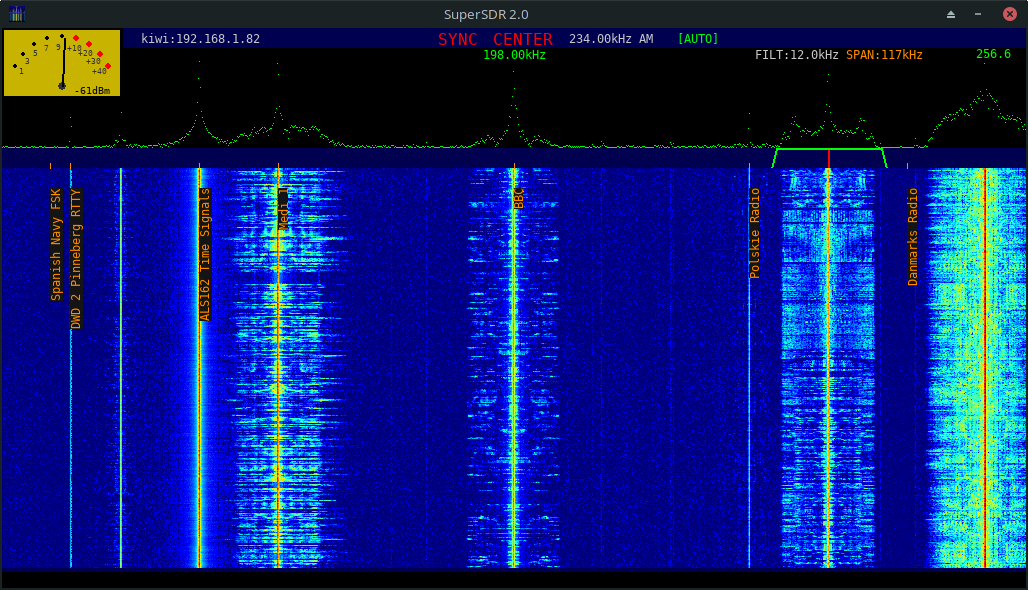
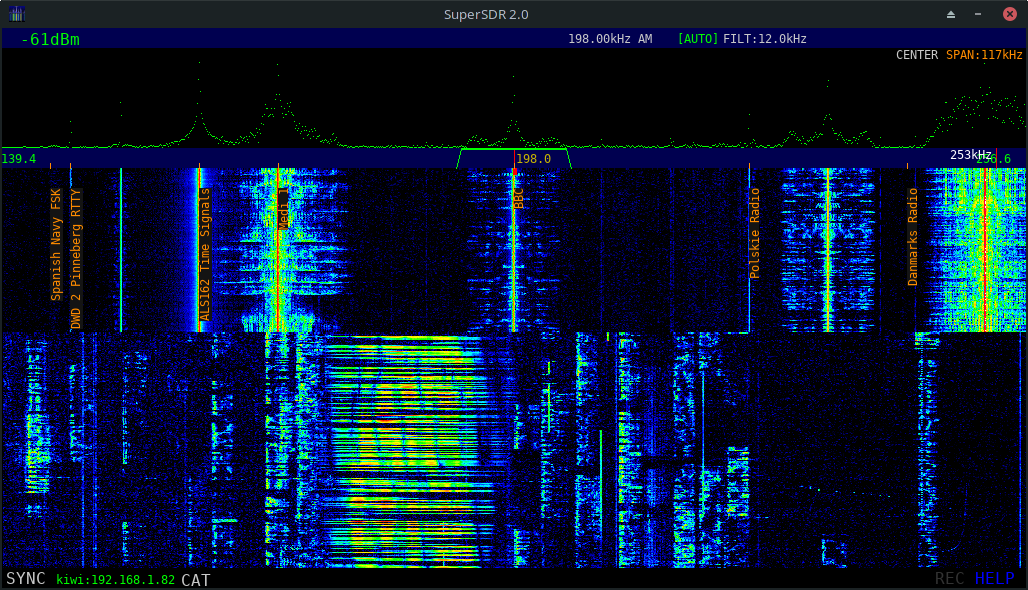
some more interface tweaks and updated screenshot, updated help

diff --git a/supersdr.py b/supersdr.py
@@ -20,15 +20,15 @@ def update_textsurfaces(radio_mode, rssi, mouse, wf_width):
             "left": (GREEN, "%.1f"%(kiwi_wf.start_f_khz) ,(0,TUNEBAR_Y+6), "small", False),
             "right": (GREEN, "%.1f"%(kiwi_wf.end_f_khz), (wf_width-50,TUNEBAR_Y+6), "small", False),
             "rx_freq": (GREY, "%.2fkHz %s"%(kiwi_snd.freq, kiwi_snd.radio_mode), (wf_width/2+55,V_POS_TEXT), "small", False),
-            "kiwi": (GREY, ("kiwi:"+kiwi_wf.host)[:30] ,(5,BOTTOMBAR_Y+6), "small", False),
-            "span": (ORANGE, "SPAN:%.0fkHz"%(round(kiwi_wf.span_khz)), (wf_width-180,SPECTRUM_Y+1), "small", False),
-            "filter": (GREY, "FILT:%.1fkHz"%((kiwi_snd.hc-kiwi_snd.lc)/1000.), (wf_width-270,SPECTRUM_Y+1), "small", False),
+            "kiwi": (RED if buff_level<FULL_BUFF_LEN/2 else GREEN, ("kiwi:"+kiwi_wf.host)[:30] ,(55,BOTTOMBAR_Y+6), "small", False),
+            "span": (ORANGE, "SPAN:%.0fkHz"%(round(kiwi_wf.span_khz)), (wf_width-80,SPECTRUM_Y+1), "small", False),
+            "filter": (GREY, "FILT:%.1fkHz"%((kiwi_snd.hc-kiwi_snd.lc)/1000.), (wf_width/2+210, V_POS_TEXT), "small", False),
             "p_freq": (WHITE, "%dkHz"%mouse_khz, (mousex_pos+4, TUNEBAR_Y+1), "small", False),
             "auto": ((GREEN if auto_mode else RED), "[AUTO]", (wf_width/2+165, V_POS_TEXT), "small", False),
-            "center": ((GREEN if wf_snd_link_flag else RED), "CENTER", (wf_width/2-20, V_POS_TEXT), "big", False),
-            "sync": ((GREEN if cat_snd_link_flag else RED), "SYNC", (wf_width/2-75, V_POS_TEXT), "big", False),
-            "buffer": (RED if buff_level<FULL_BUFF_LEN/2 else GREEN, "buffer level:"+str(buff_level), (200,BOTTOMBAR_Y+6), "small", False), 
-            "recording": (RED if audio_rec.recording_flag else D_GREY, "REC", (wf_width-90, BOTTOMBAR_Y+4), "big", False),
+            "center": ((GREEN if wf_snd_link_flag else GREY), "CENTER", (wf_width-130, SPECTRUM_Y+2), "small", False),
+            "sync": ((GREEN if cat_snd_link_flag else GREY), "SYNC", (5, BOTTOMBAR_Y+4), "big", False),
+            "cat": (GREEN if cat_radio else GREY, "CAT", (180,BOTTOMBAR_Y+6), "big", False), 
+            "recording": (RED if audio_rec.recording_flag and run_index%2 else D_GREY, "REC", (wf_width-90, BOTTOMBAR_Y+4), "big", False),
             "help": (BLUE, "HELP", (wf_width-50, BOTTOMBAR_Y+4), "big", False)
             }
     if not s_meter_show_flag:
@@ -411,7 +411,7 @@ while not wf_quit:
                     delta_high = 0
                 if keys[pygame.K_j]:
                     change_passband_flag = True
-                    delta = -100 if (keys[pygame.K_LSHIFT] or keys[pygame.K_RSHIFT]) else 100
+                    delta = 100 if (keys[pygame.K_LSHIFT] or keys[pygame.K_RSHIFT]) else -100
                     delta_low += delta
                     if delta_low > 3000:
                         delta_low = 3000

diff --git a/utils_supersdr.py b/utils_supersdr.py
@@ -109,8 +109,8 @@ HELP_MESSAGE_LIST = ["COMMANDS HELP",
         "- PAGE UP/DOWN: move WF freq +/- SPAN/2",
         "- UP/DOWN: zoom in/out by a factor 2X",
         "- U/L/C/A: switches to USB, LSB, CW, AM",
-        "- J/K: change low/high cut of RX (SHIFT inverts)",
-        "- O: resets passband to defaults",
+        "- J/K/O: change low/high cut of RX (SHIFT inverts), O resets",
+        "- E: start audio recording",
         "- F: enter frequency with keyboard",
         "- W/R: Write/Restore quick memory (up to 10)",
         "- SHIFT+W: Deletes all stored memories",
@@ -122,6 +122,7 @@ HELP_MESSAGE_LIST = ["COMMANDS HELP",
         "- SPACE: FORCE SYNC of WF to RX if no CAT, else all to CAT",
         "- X: AUTO MODE ON/OFF depending on amateur/broadcast band",
         "- H: displays this help window",
+        "- I: displays EIBI DB labels",
         "- Q: switch to a different KIWI server",
         "- SHIFT+ESC: quits",
         "",
